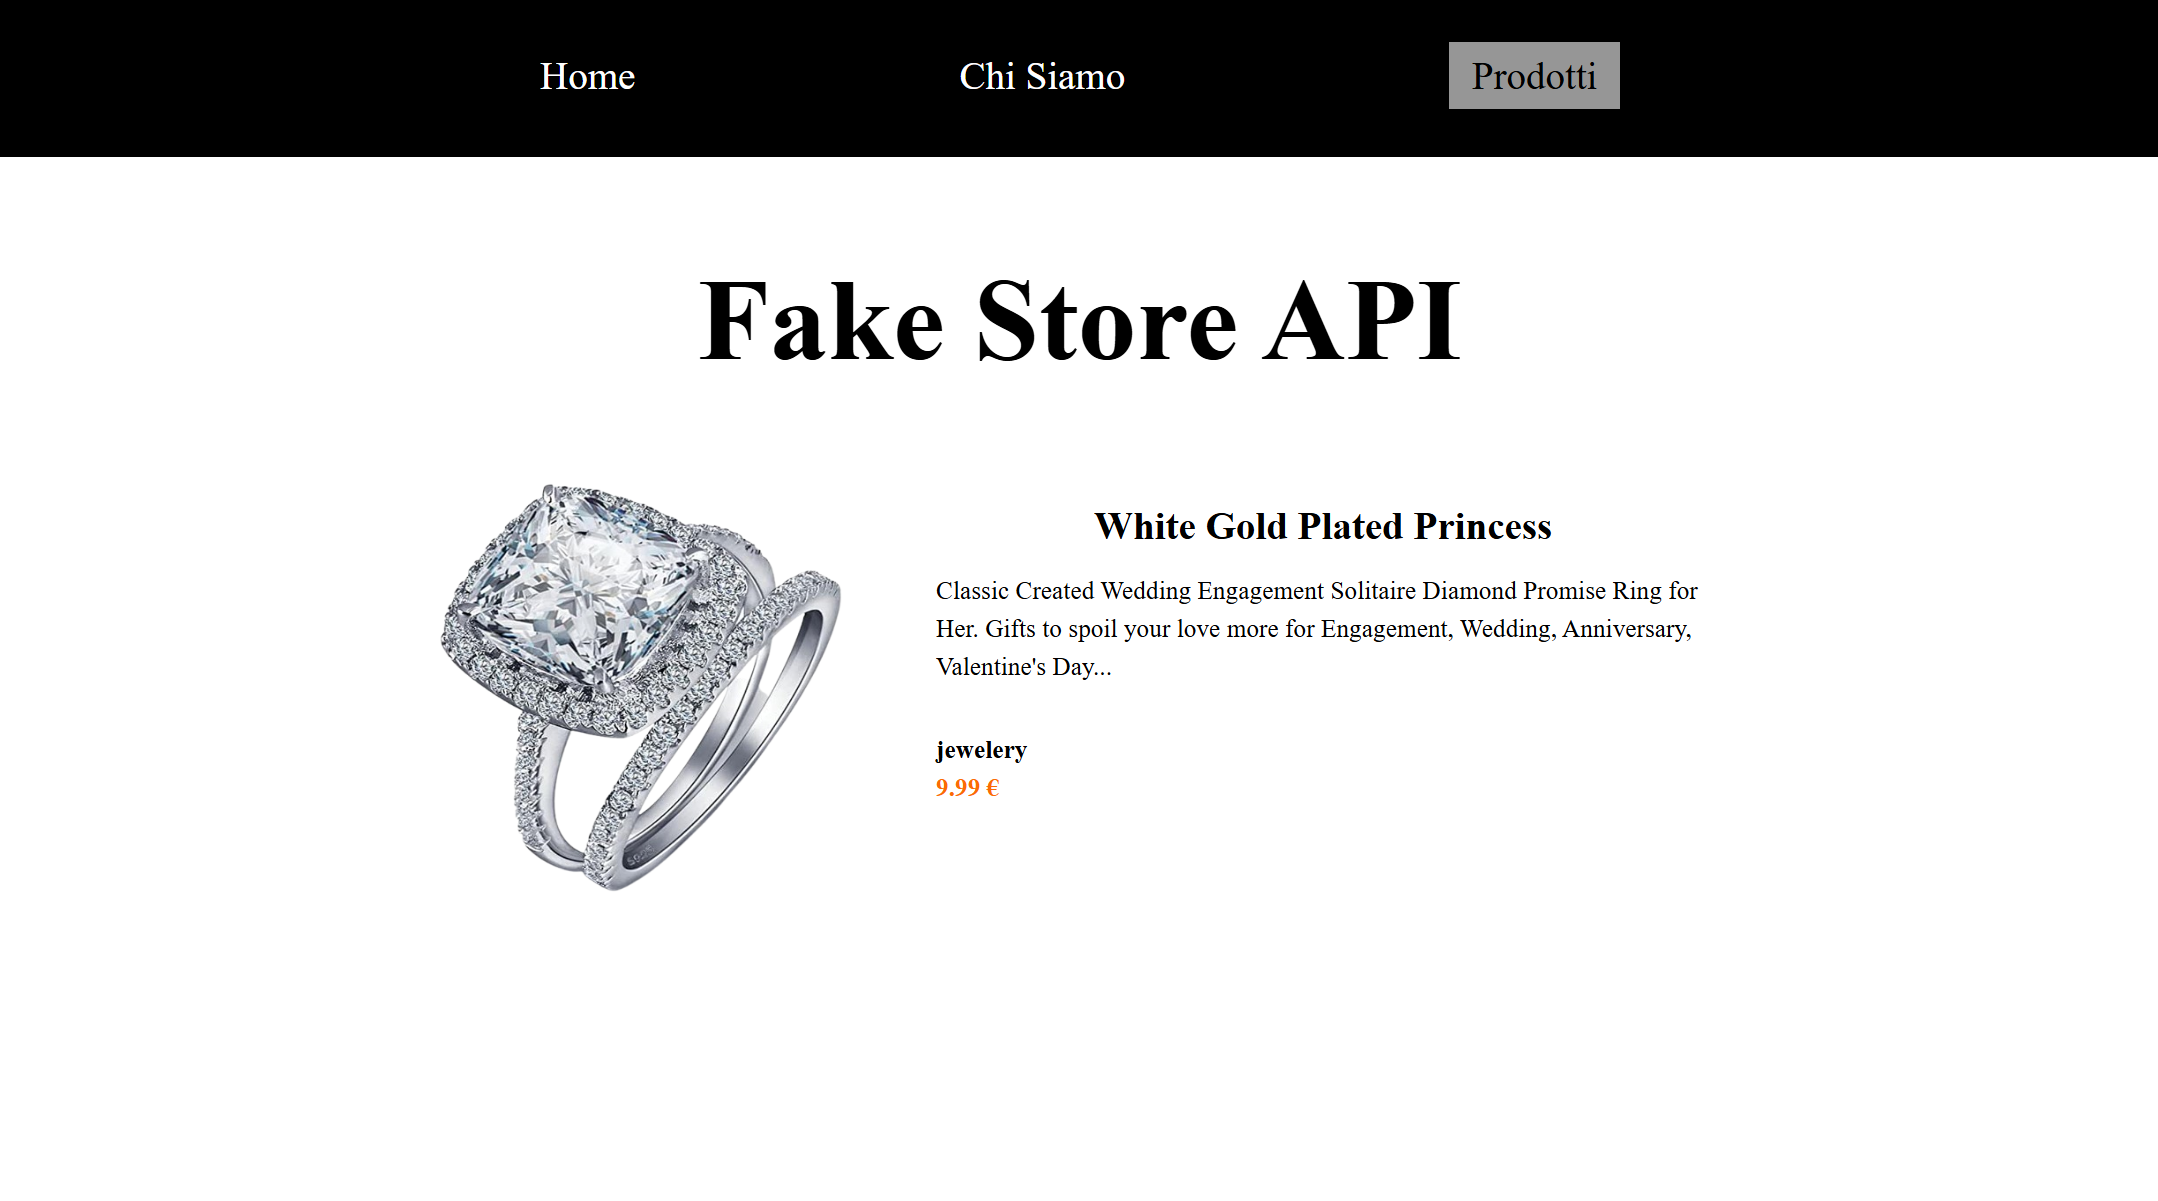
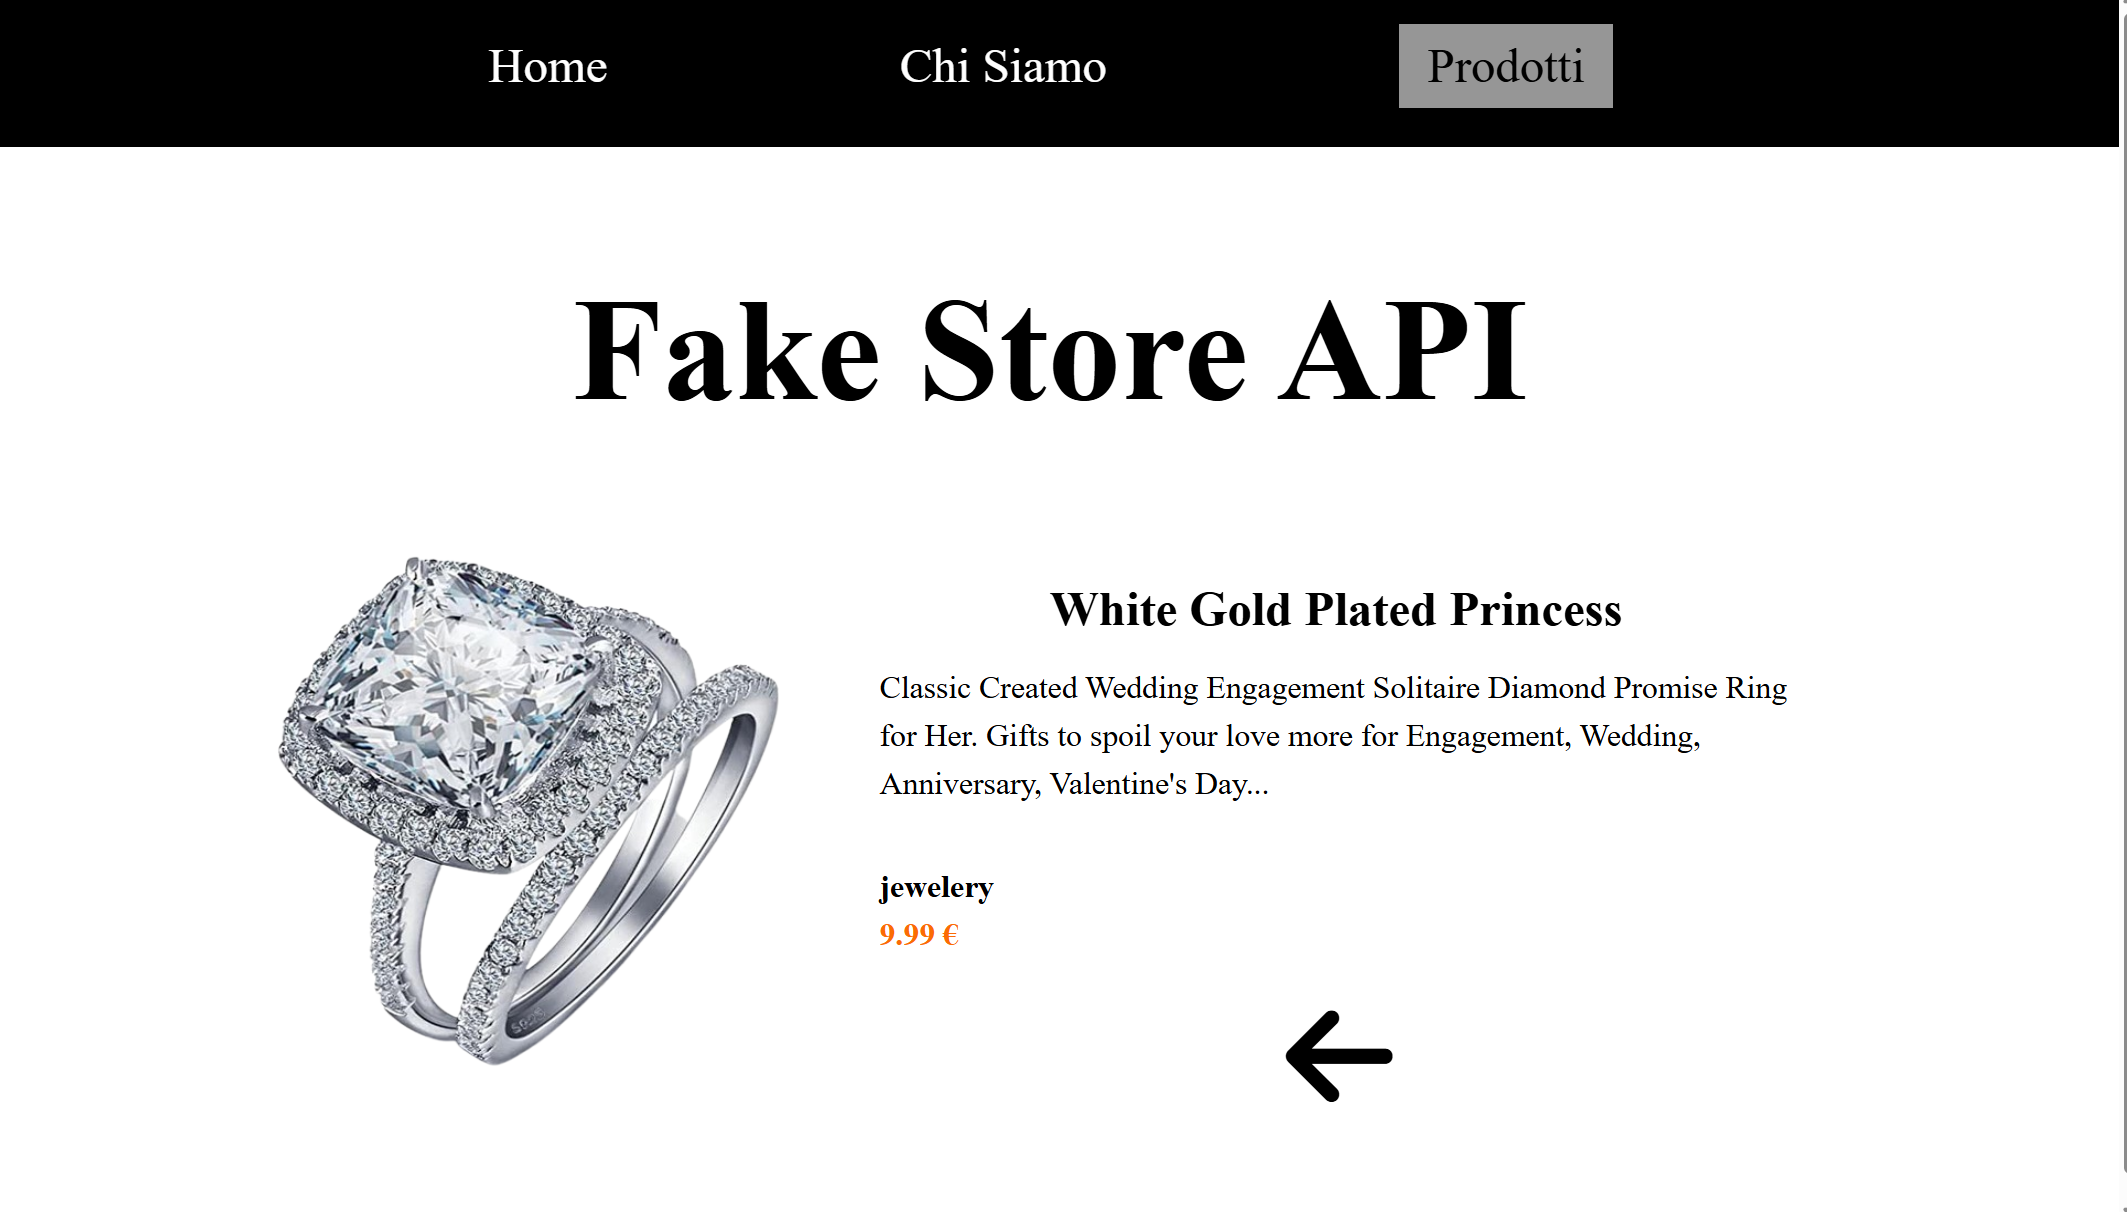
- Aggiunta freccia (in DettagliProdotto) che riporta alla pagina precedente
- Aggiornato README.md

diff --git a/src/components/DettagliProdotto.jsx b/src/components/DettagliProdotto.jsx
@@ -2,6 +2,7 @@
 
 import { useState, useEffect } from "react"         // import useEffect e useState per recuperare il singolo oggetto dall'API e salvarlo nella variabile di stato "prodotto"
 import { useParams } from "react-router-dom";       // import useParams per recuperare l'id dall'URL
+import { Link } from "react-router-dom";            // import Link per icona "freccia torna indietro"
 
 function DettagliProdotto() {
 
@@ -39,25 +40,30 @@ function DettagliProdotto() {
                 
                 /* Se l'API ha risposto -> prodottoIsEmpty === false */
                 : (
-                    <div className="container-flex-left-right">
+                    <>
+                        <div className="container-flex-left-right">
 
-                        {/* Immagine Prodotto */}
-                        <div className="container-left">
-                            <figure>
-                                <img className="img-singolo-prodotto" src={singoloProdotto.image} alt="immagine prodotto" />
-                            </figure>
-                        </div>
+                            {/* Immagine Prodotto */}
+                            <div className="container-left">
+                                <figure>
+                                    <img className="img-singolo-prodotto" src={singoloProdotto.image} alt="immagine prodotto" />
+                                </figure>
+                            </div>
 
-                        {/* Dettagli Prodotto */}
-                        <div className="container-right">  
-                            <ul className="description-singolo-prodotto">
-                                <li> <h3 className="titolo-singolo-prodotto"> {singoloProdotto.title} </h3> </li>
-                                <li> {singoloProdotto.description} </li>
-                                <li className="categoria-singolo-prodotto"> {singoloProdotto.category} </li>
-                                <li className="prezzo"> {singoloProdotto.price} € </li>
-                            </ul>
+                            {/* Dettagli Prodotto */}
+                            <div className="container-right">  
+                                <ul className="description-singolo-prodotto">
+                                    <li> <h3 className="titolo-singolo-prodotto"> {singoloProdotto.title} </h3> </li>
+                                    <li> {singoloProdotto.description} </li>
+                                    <li className="categoria-singolo-prodotto"> {singoloProdotto.category} </li>
+                                    <li className="prezzo"> {singoloProdotto.price} € </li>
+                                </ul>
+
+                                {/* Link per tornare alla pagina precedente */}
+                                <Link to="/prodotti"> <i className="fa-solid fa-arrow-left"></i> </Link>
+                            </div>
                         </div>
-                   </div>
+                    </>
                 )
             }
 

diff --git a/index.html b/index.html
@@ -10,8 +10,13 @@
     <meta name="viewport" content="width=device-width, initial-scale=1.0" />
     <title>react-router</title>
 
-      <!-- Collegamento ad Axios -->
-      <script type="text/javascript" src="https://cdnjs.cloudflare.com/ajax/libs/axios/1.6.7/axios.min.js"></script>
+    <!-- Collegamento a Font Awasome -->
+    <link rel="stylesheet" href="https://cdnjs.cloudflare.com/ajax/libs/font-awesome/6.7.2/css/all.min.css"
+      integrity="sha512-Evv84Mr4kqVGRNSgIGL/F/aIDqQb7xQ2vcrdIwxfjThSH8CSR7PBEakCr51Ck+w+/U6swU2Im1vVX0SVk9ABhg=="
+      crossorigin="anonymous" referrerpolicy="no-referrer" />
+
+    <!-- Collegamento ad Axios -->
+    <script type="text/javascript" src="https://cdnjs.cloudflare.com/ajax/libs/axios/1.6.7/axios.min.js"></script>
   </head>
 
   <!----------------------------------------------------------------------------->

diff --git a/src/index.css b/src/index.css
@@ -49,17 +49,14 @@ ul {
 /* Container left */
 .container-left {
   flex-basis: 40%;
-
-    /* Debug */
-      /* background-color: rgb(0, 164, 49); */
 }
 
 /* Container right */
 .container-right {
   flex-basis: 60%;
 
-  /* Debug */
-  /* background-color: red; */
+  /* Position */
+    position: relative;       /* Posizione relativa per freccia "torna indietro" */
 }
 
 /* Titolo Container right */
@@ -254,7 +251,7 @@ a {
   transform: translate(-50%, -50%);
 }
 
-/* Sezione Prodotto con Dettagli */
+/** Sezione Singolo Prodotto */
 .img-singolo-prodotto {
   width: 280px;
   height: 280px;
@@ -283,5 +280,15 @@ a {
 .categoria-singolo-prodotto {
   font-weight: bold;
   padding-top: 30px;
+}
+
+/* Freccia */
+.fa-arrow-left {
+  font-size: 5rem;
+  padding: 20px 0px 70px;
+
+  /* Position */
+  position: absolute;
+  right: 50%;
 }
 
